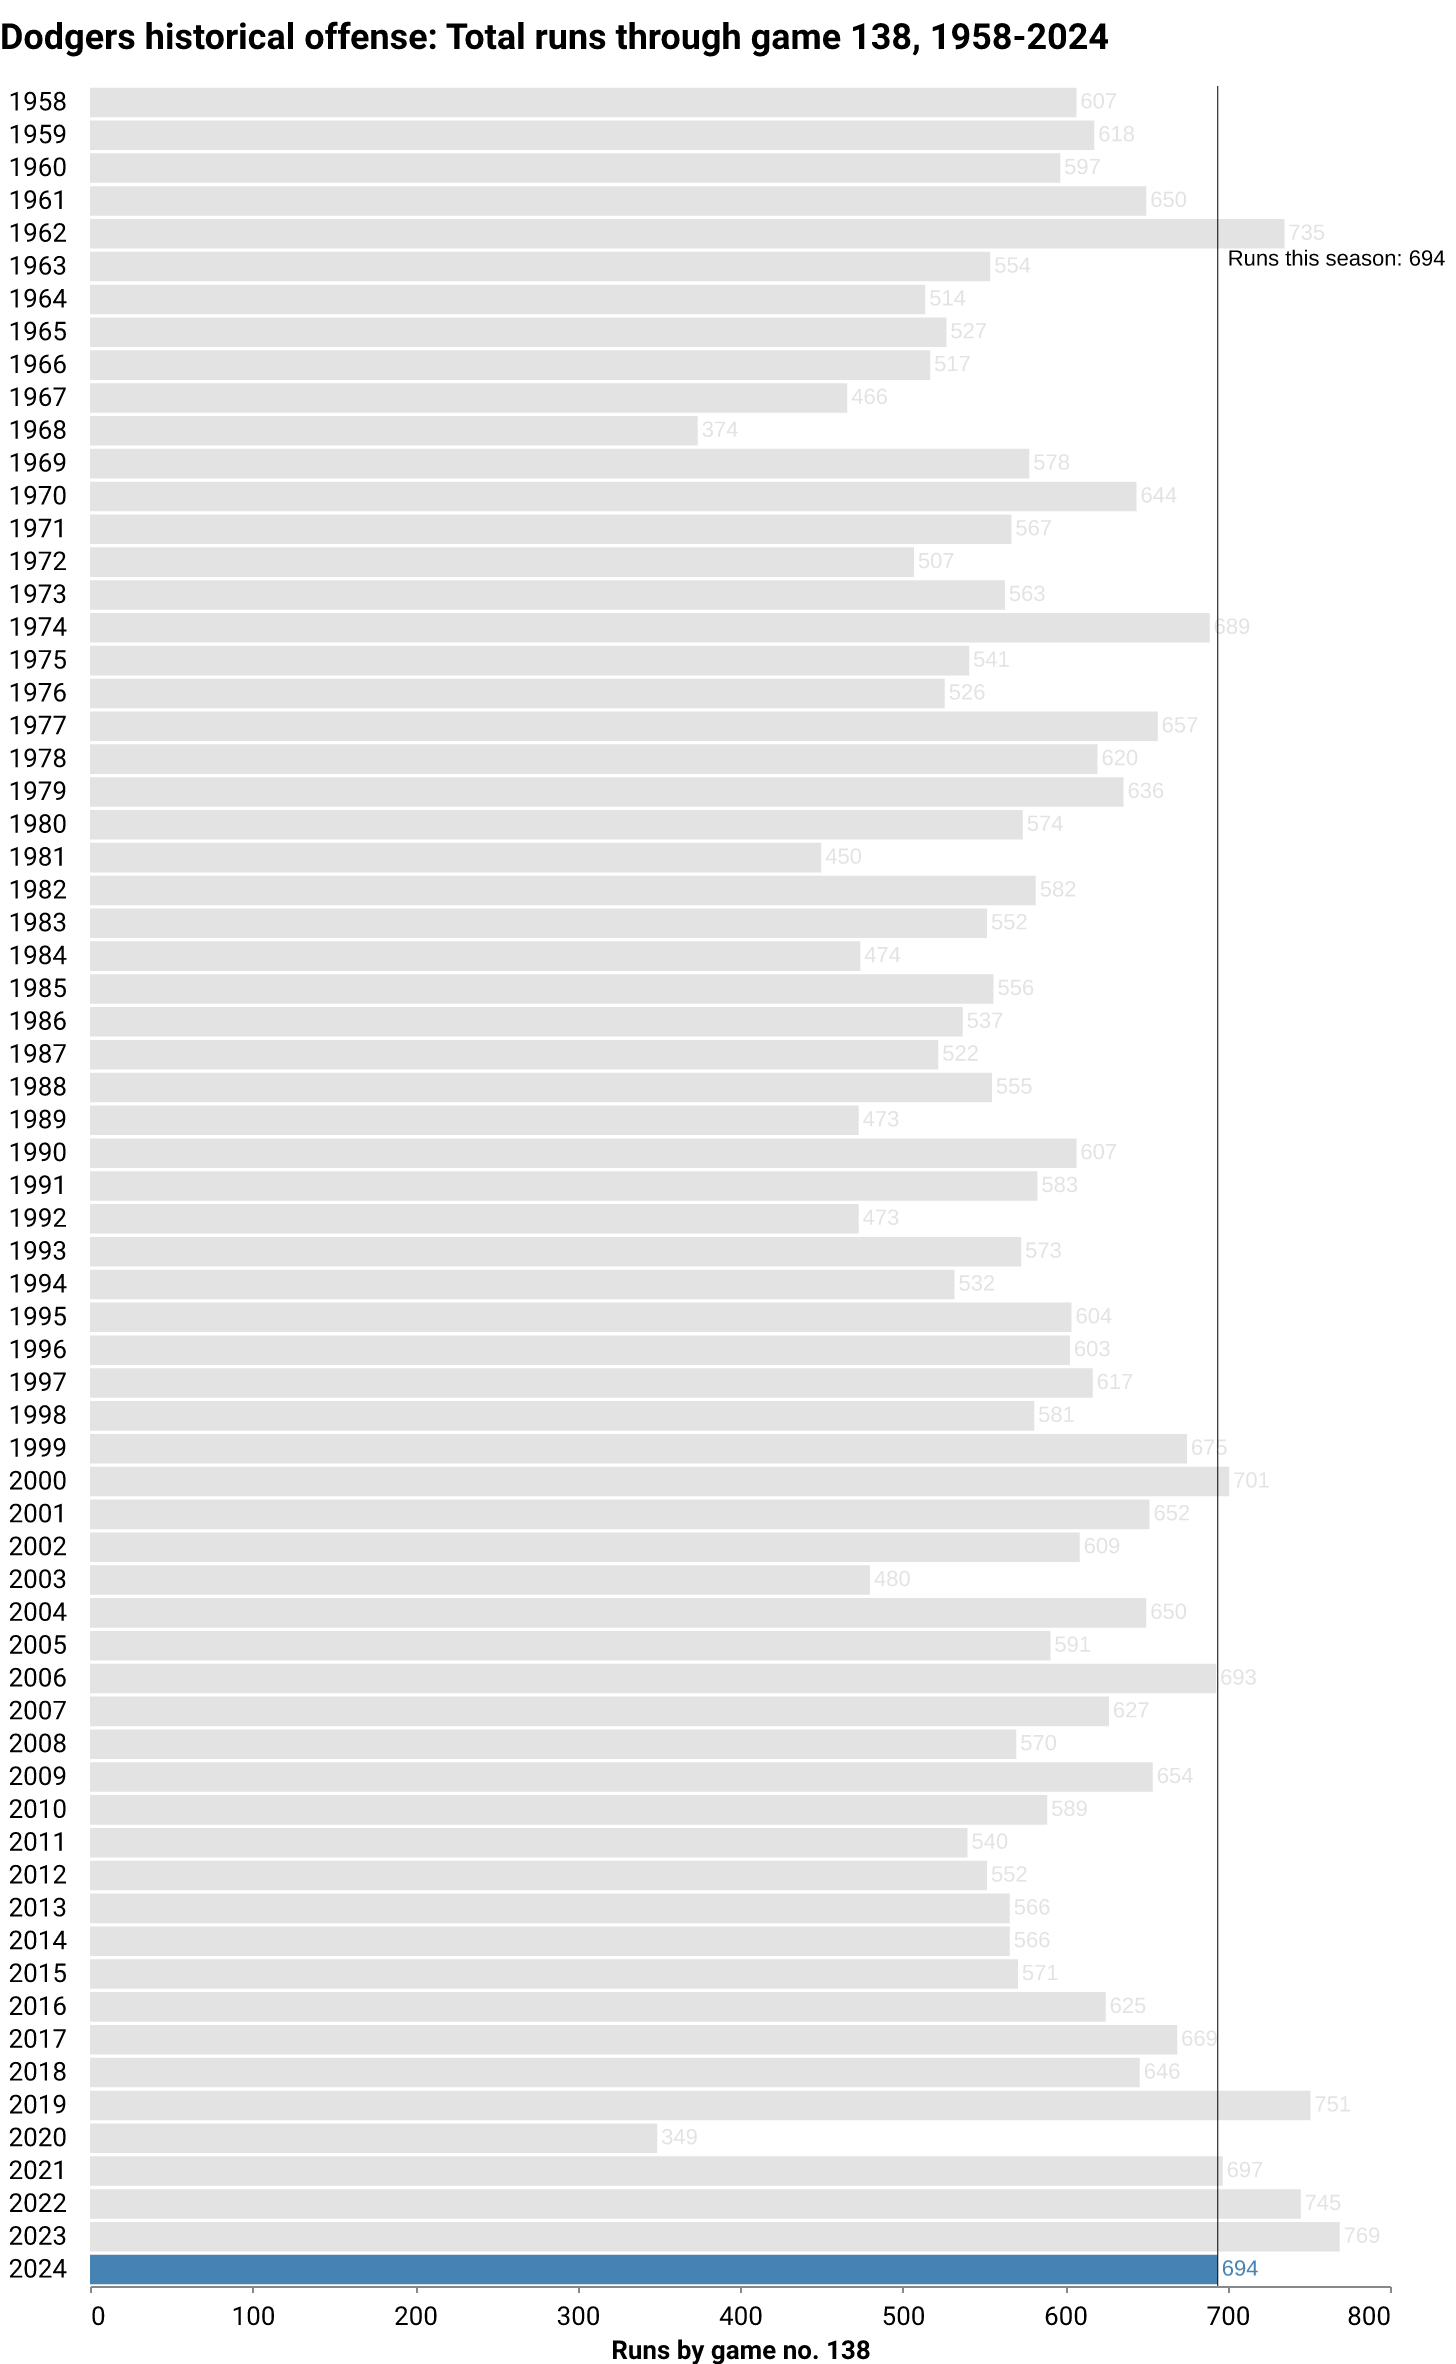
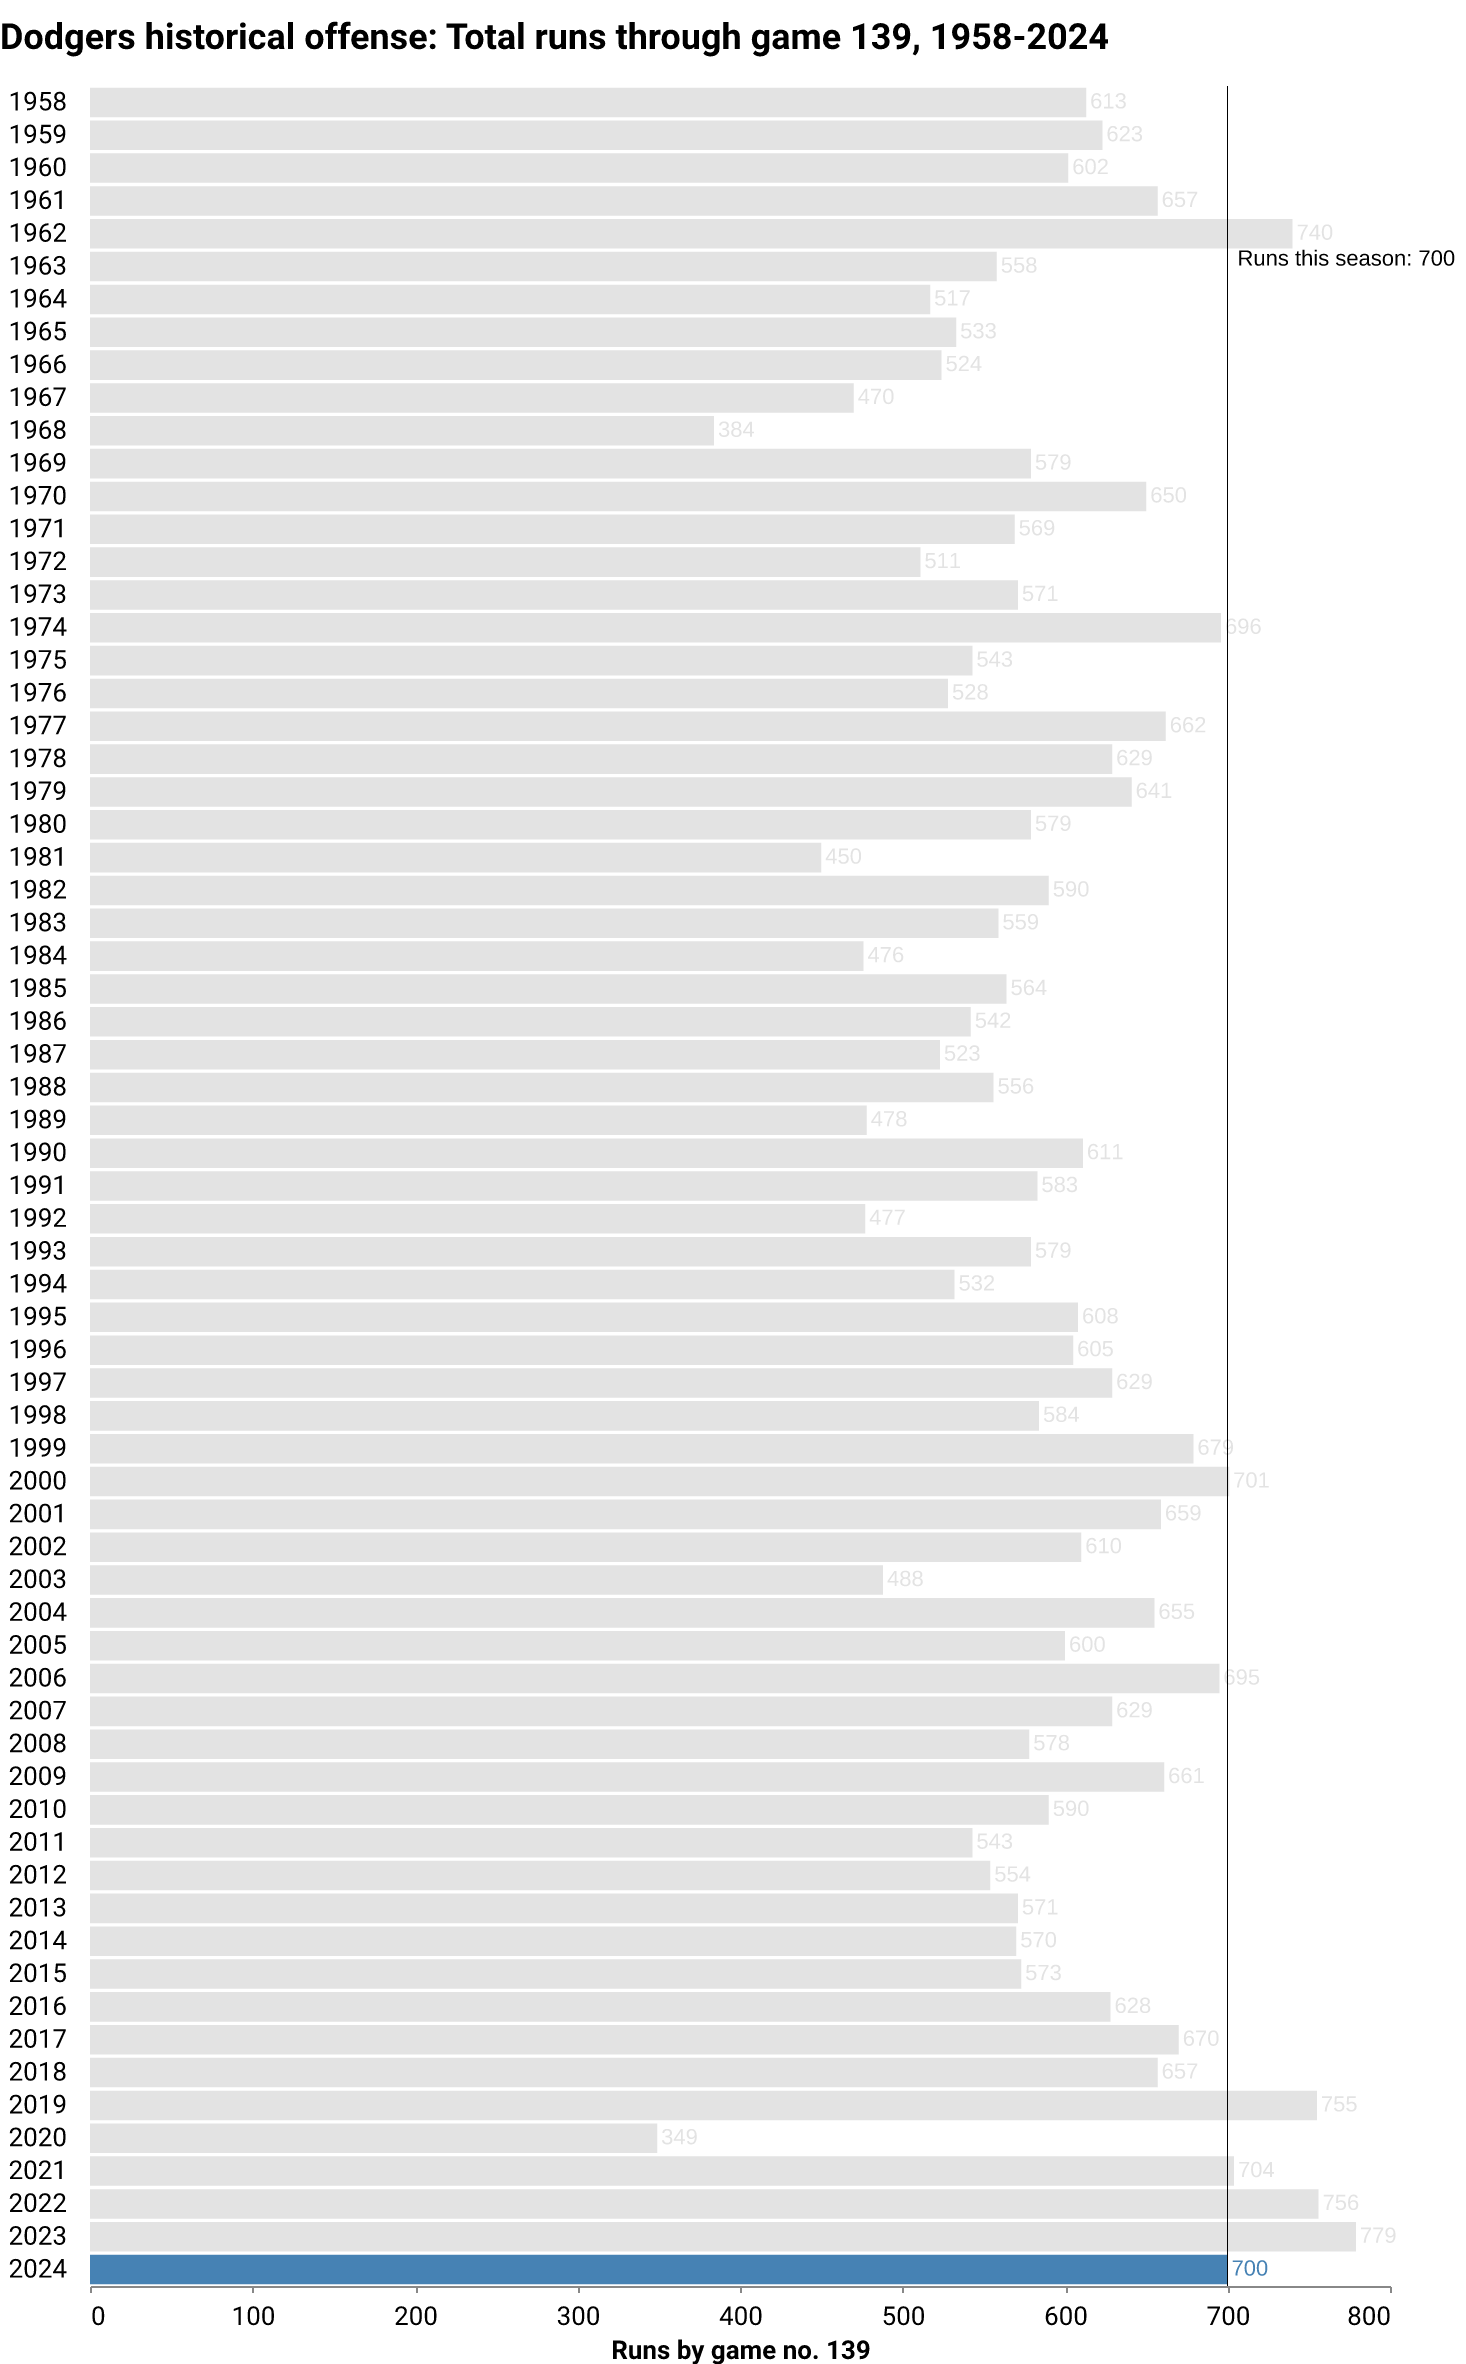
deploy: 8d757b5121ba31569f9e7a03fc11c701fe3d4d15

diff --git a/index.html b/index.html
@@ -184,7 +184,7 @@
 <p class="subhead">
     
     
-    <span class="highlight">LOS ANGELES</span> <span class="updated">(September 4)</span> — After <span class="highlight">138</span> games this season, the Dodgers are in <span class="highlight">1st</span> place in the National League West division. The team has compiled a <span class="highlight">83-55</span> record, winning <span class="highlight">60%</span> of its games so far. The last game was a <span class="highlight">11-6</span> away <span class="highlight">win</span> against the Arizona Diamondbacks in front of <span class="highlight">43,747</span> fans. They've won <span class="highlight">7 of the last 10</span>.
+    <span class="highlight">LOS ANGELES</span> <span class="updated">(September 4)</span> — After <span class="highlight">139</span> games this season, the Dodgers are in <span class="highlight">1st</span> place in the National League West division. The team has compiled a <span class="highlight">84-55</span> record, winning <span class="highlight">60%</span> of its games so far. The last game was a <span class="highlight">6-2</span> away <span class="highlight">win</span> against the Los Angeles Angels in front of <span class="highlight">44,731</span> fans. They've won <span class="highlight">7 of the last 10</span>.
 </p>
 </div>
 
@@ -206,10 +206,10 @@
             Wins
           </div>
           <div class="card-body">
-            <p class="card-text">83</p>
+            <p class="card-text">84</p>
           </div>
           <div class="card-footer text-muted">
-        This point last season: 84
+        This point last season: 85
           </div>
         </div>
       </div>
@@ -238,10 +238,10 @@
             Record
           </div>
           <div class="card-body">
-            <p class="card-text">83-55</p>
+            <p class="card-text">84-55</p>
           </div>
           <div class="card-footer text-muted">
-        This point last season: 84-54
+        This point last season: 85-54
           </div>
         </div>
       </div>
@@ -270,7 +270,7 @@
             Games up/back
           </div>
           <div class="card-body">
-            <p class="card-text">5.0</p>
+            <p class="card-text">5.5</p>
           </div>
           <div class="card-footer text-muted">
         Division rank: 1
@@ -302,7 +302,7 @@
             Runs
           </div>
           <div class="card-body">
-            <p class="card-text">694</p>
+            <p class="card-text">700</p>
           </div>
           <div class="card-footer text-muted">
         League rank: 2
@@ -318,7 +318,7 @@
             Runs against
           </div>
           <div class="card-body">
-            <p class="card-text">577</p>
+            <p class="card-text">579</p>
           </div>
           <div class="card-footer text-muted">
         This point last season: 613
@@ -334,10 +334,10 @@
             Run differential
           </div>
           <div class="card-body">
-            <p class="card-text">117</p>
+            <p class="card-text">121</p>
           </div>
           <div class="card-footer text-muted">
-        This point last season: 156
+        This point last season: 166
           </div>
         </div>
       </div>
@@ -408,7 +408,7 @@
             Batting average
           </div>
           <div class="card-body">
-            <p class="card-text">.255</p>
+            <p class="card-text">.254</p>
           </div>
           <div class="card-footer text-muted">
         Last decade average: .253
@@ -424,7 +424,7 @@
             Home runs
           </div>
           <div class="card-body">
-            <p class="card-text">189</p>
+            <p class="card-text">190</p>
           </div>
           <div class="card-footer text-muted">
         League rank: 1
@@ -472,7 +472,7 @@
             Stolen bases
           </div>
           <div class="card-body">
-            <p class="card-text">106</p>
+            <p class="card-text">107</p>
           </div>
           <div class="card-footer text-muted">
         League rank: 6
@@ -605,10 +605,10 @@
             Strikeouts
           </div>
           <div class="card-body">
-            <p class="card-text">1175</p>
+            <p class="card-text">1184</p>
           </div>
           <div class="card-footer text-muted">
-        League rank: 7
+        League rank: 6
           </div>
         </div>
       </div>
@@ -621,7 +621,7 @@
             Walks
           </div>
           <div class="card-body">
-            <p class="card-text">418</p>
+            <p class="card-text">420</p>
           </div>
           <div class="card-footer text-muted">
         League rank: 8
@@ -637,7 +637,7 @@
             ERA
           </div>
           <div class="card-body">
-            <p class="card-text">3.86</p>
+            <p class="card-text">3.84</p>
           </div>
           <div class="card-footer text-muted">
         League rank: 5
@@ -716,7 +716,7 @@
     </div>
 </div>
 
-  <p class="dated">Notes: Last updated September 4, 2024, 12:03 AM PT. More <a href="https://github.com/stiles/dodgers/blob/main/README.md">about the data</a>.</p>
+  <p class="dated">Notes: Last updated September 4, 2024, 4:03 AM PT. More <a href="https://github.com/stiles/dodgers/blob/main/README.md">about the data</a>.</p>
   
 </div>
 
